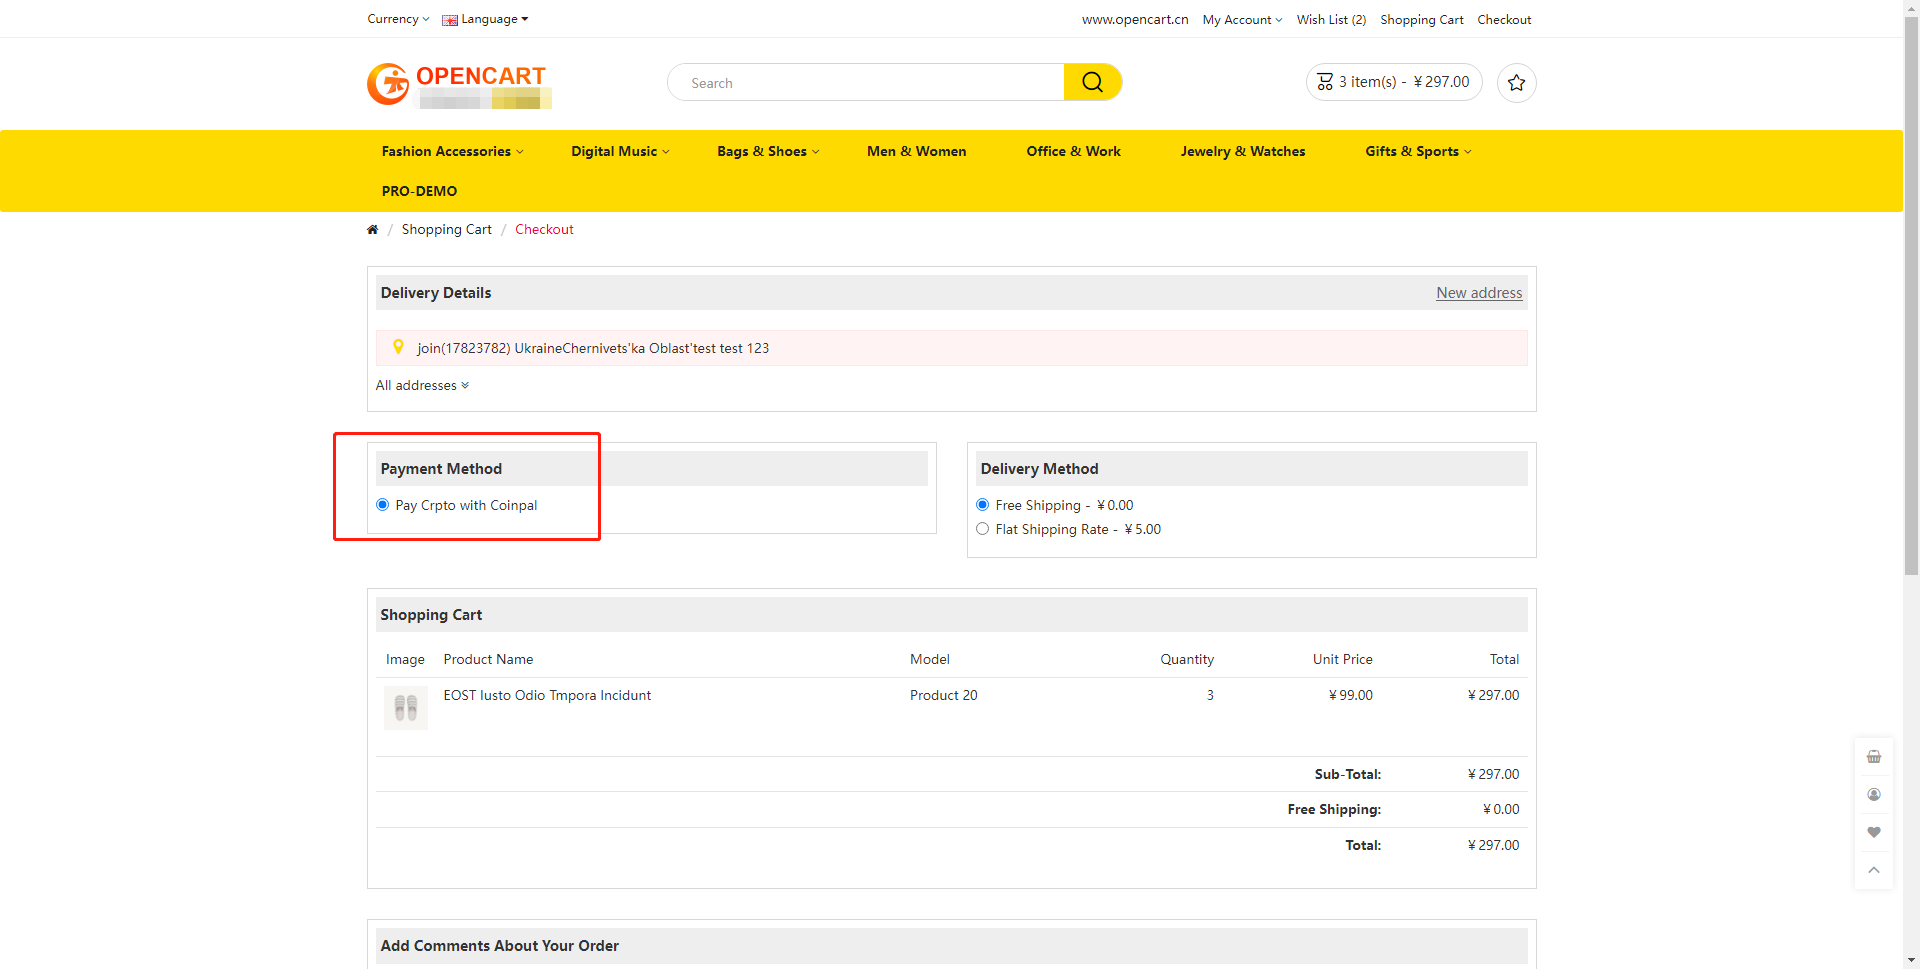
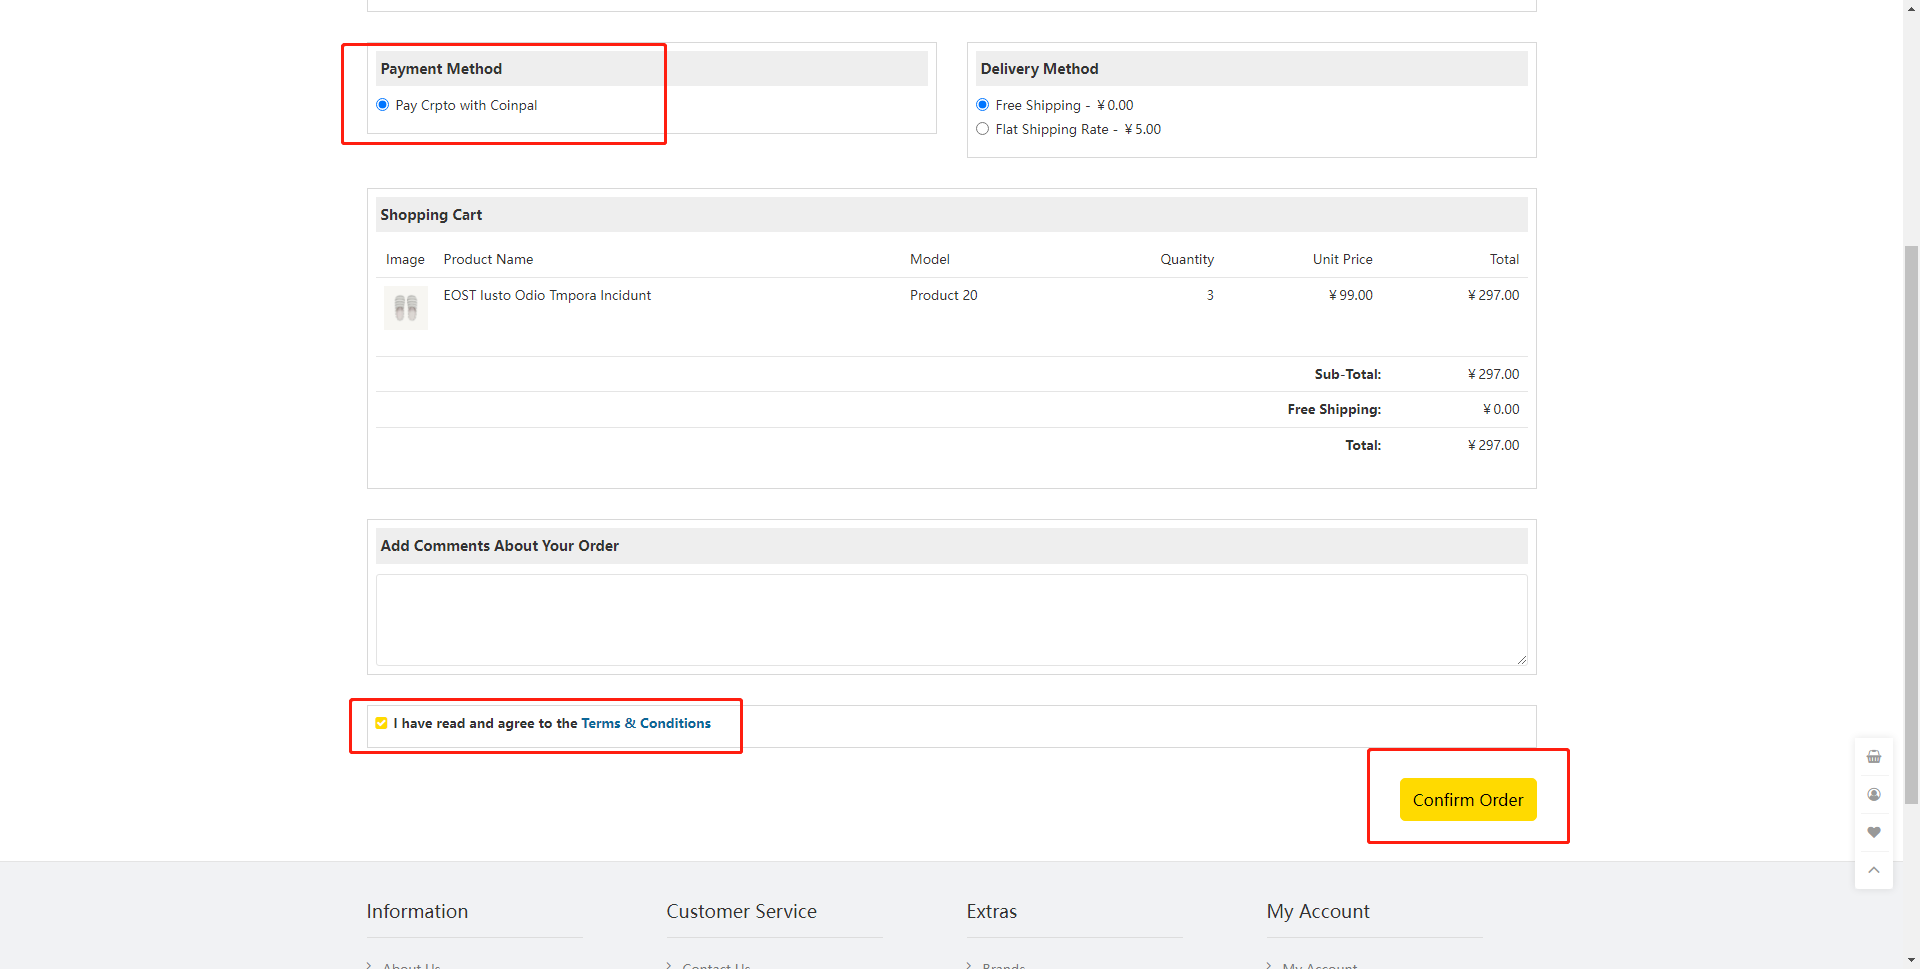
update

diff --git a/README.md b/README.md
@@ -10,18 +10,15 @@
 3. Click the 'Integration' button in the lower left corner to get the corresponding Merchant Id and Secret Key
 ![](./img/api-key.png)
 
-## Step 2: Installing the WooCommerce Plugin on your Wordpress Site.
-1. Click the  [Coinpal plug](https://github.com/CoinpalGroup/plug_wordpress/blob/main/coinpal.zip)  Download Coinpal WooCommerce Payment Plug
-2. Go to your OpenCart admin area and click on plugins installation-> Install Plugins -> upload
+## Step 2: Installing the Coinpal Plugin on your OpenCart Site.
+1. Click the  [Coinpal plug](https://github.com/CoinpalGroup/plug_opencart/blob/master/coinpal.ocmod.zip)  Download Coinpal WooCommerce Payment Plug
+2. Go to your OpenCart admin area and click on plugins management -> plugins installation -> upload
 ![](./img/upload.png)
 3. Activate the Coinpal OpenCart Gateway
+Go to your OpenCart admin area and click on plugins management -> plugins management -> payment module
 ![](./img/install.png)
+Find the payment method Coinpal, click install
 ![](./img/edit.png)
-
-
-Go to the WooCommerce Section, click Settings.
-
-Press the Payments Tab at the top, Enable Coinpal, and press Manage.
 
 Copy and Paste all of the Settings you generated in your Coinpal Dashboard on Step #1.
 
@@ -36,12 +33,15 @@ Add Test Item to Shopping Cart and View Cart.
 
 Proceed to Checkout
 
-Select Coinpal as the Payment Method.
+Select Pay Crpto with Coinpal as the Payment Method.
 
-Click Place Order
-
-Click the “Pay Now with Coinpal” button.
+Click Confirm Order
 ![](./img/checkout.png)
+
+Click the “Confirm Order” button.
+![](./img/checkout2.png)
+
+
 
 Verify all of the Wallet Addresses and Order info, and make sure the Validation Tests all have a Green Check Mark.
 
